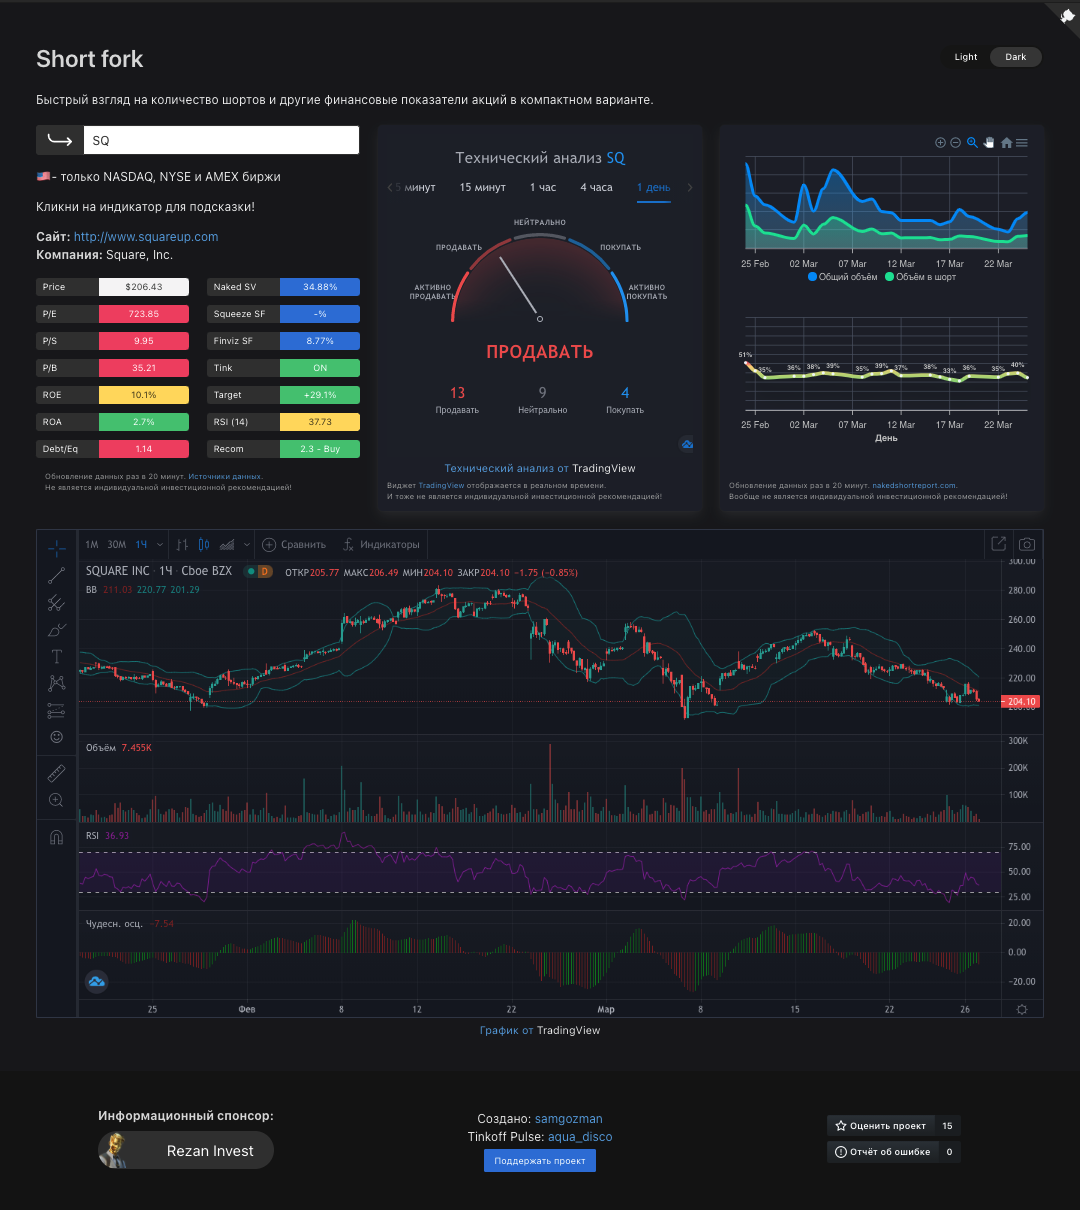
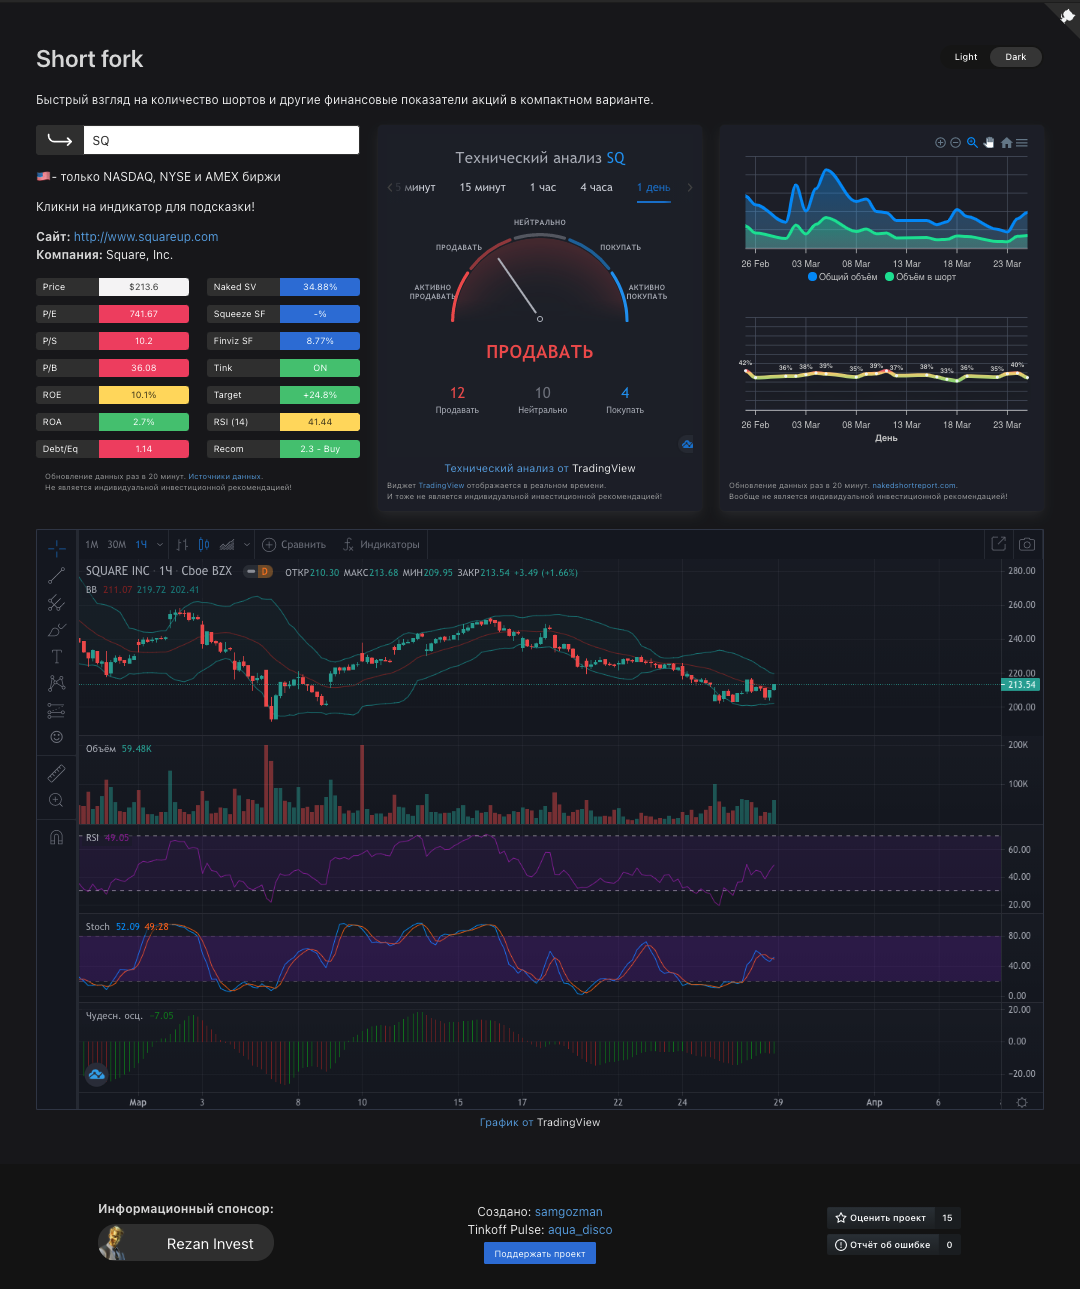
Добавил STOCH
+ убрал часть осцилляторов из мобильной версии

diff --git a/public/charts/chart.html b/public/charts/chart.html
@@ -22,8 +22,9 @@
     <div class="tradingview-widget-container" style="height: 100%;">
         <div id="tradingview_89c6f"></div>
         <script type="text/javascript">
-            let stock = getParameterByName('stock'),
-                theme = getParameterByName('theme')
+            const stock = getParameterByName('stock'),
+                theme = getParameterByName('theme'),
+                isMobile = window.innerWidth <= 425 || false
             new TradingView.widget({
                 "autosize": true,
                 "symbol": stock,
@@ -34,10 +35,15 @@
                 "toolbar_bg": "#f1f3f6",
                 "enable_publishing": false,
                 "range": "3M",
-                "hide_side_toolbar": window.innerWidth <= 425 ? true : false,
-                "studies": [
+                "hide_side_toolbar": isMobile ? true : false,
+                "studies": isMobile ? [
                     "Volume@tv-basicstudies",
                     "RSI@tv-basicstudies",
+                    "BB@tv-basicstudies",
+                ] : [
+                    "Volume@tv-basicstudies",
+                    "RSI@tv-basicstudies",
+                    "Stochastic@tv-basicstudies",
                     "BB@tv-basicstudies",
                     "AwesomeOscillator@tv-basicstudies"
                 ],
